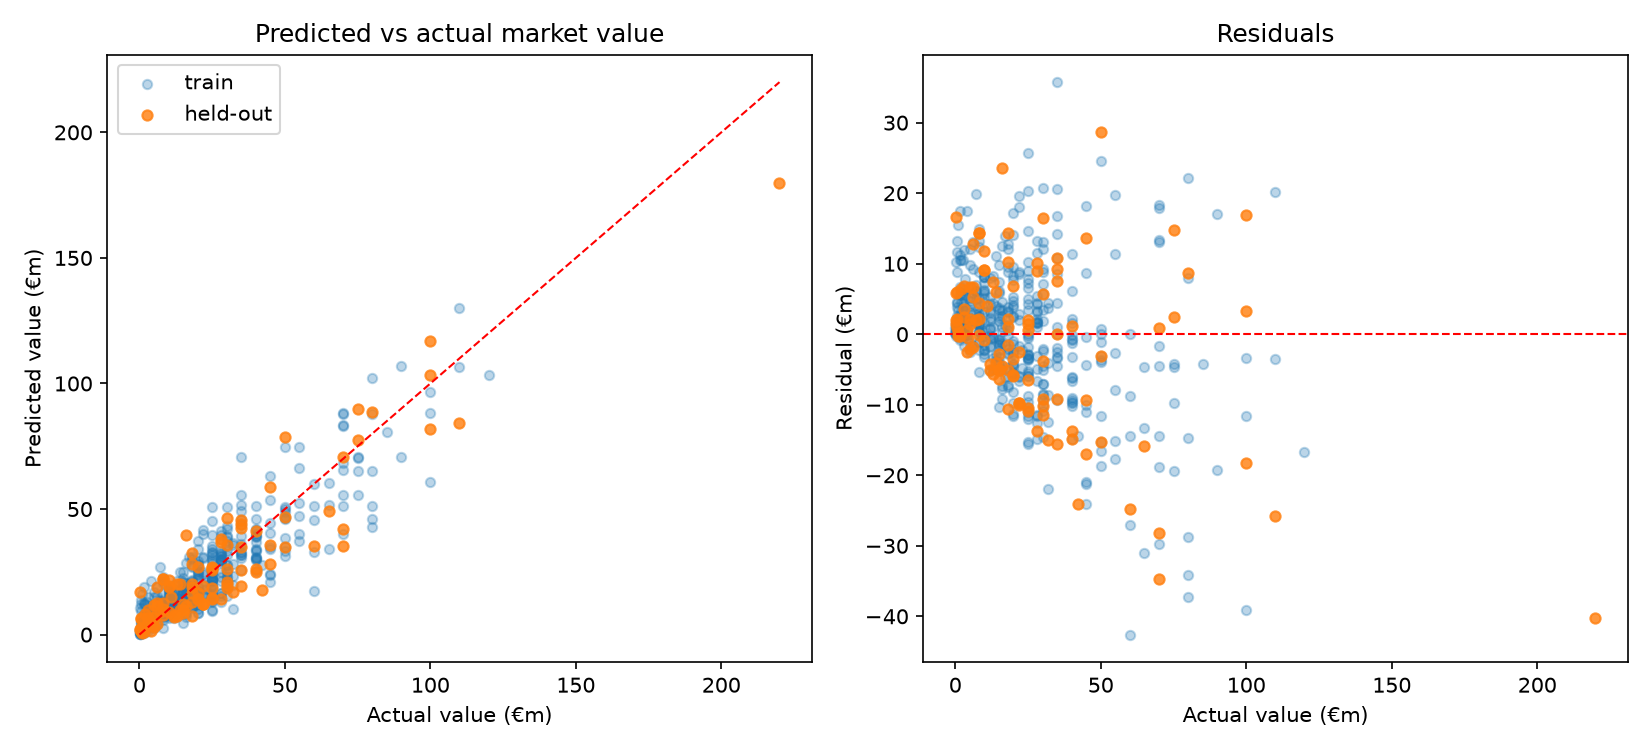
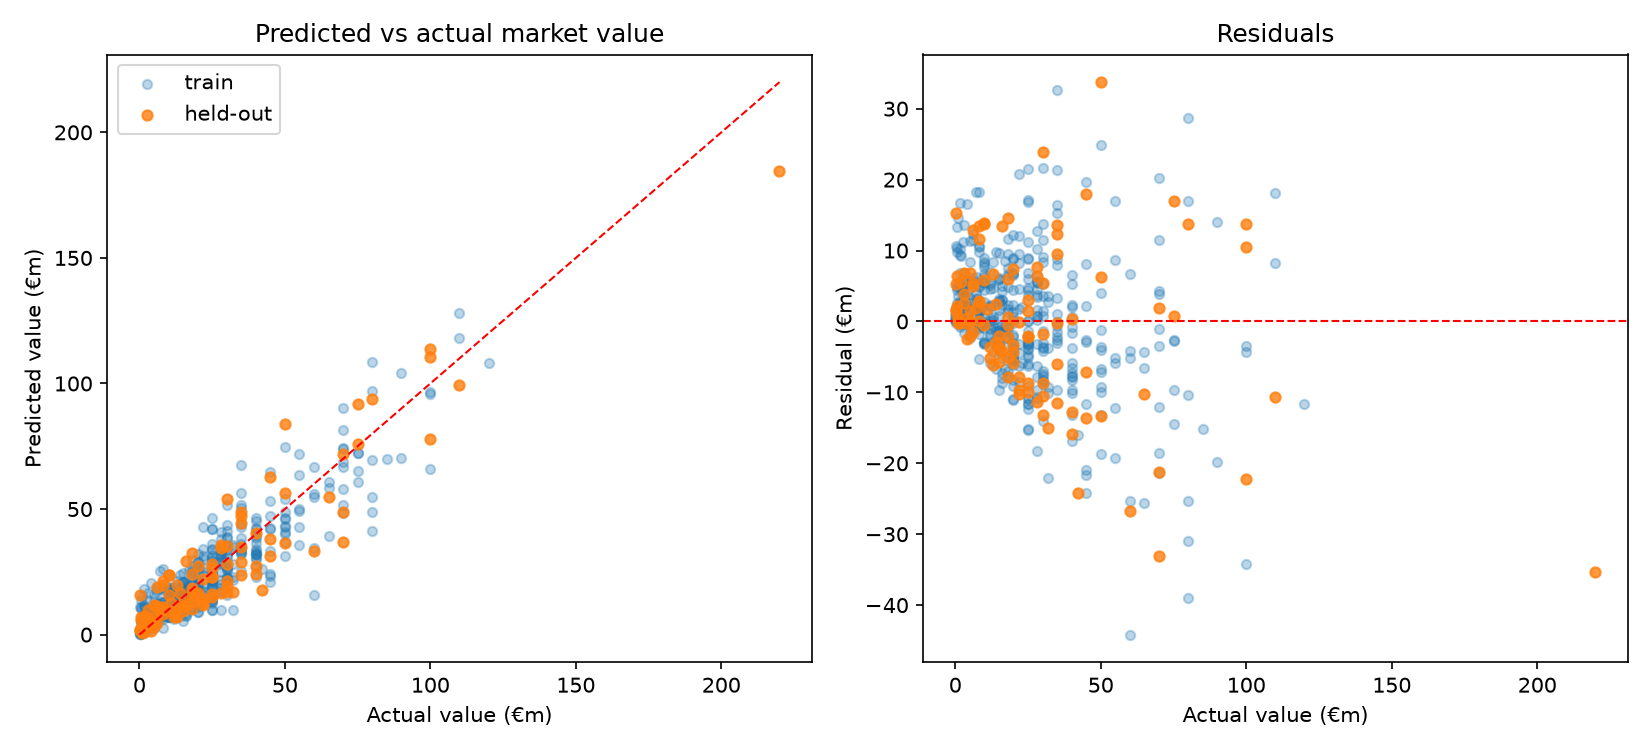
Add the newest season on its own: the sharpest gain since FPL history
Career figures average four seasons together, so a player who has just become a
regular - or just lost their place - is described badly by them. Carrying the
newest completed season as its own feature, alongside the career one, is worth
more than anything else tried since the FPL archive went in:

  CV MAE            EUR7.90m -> EUR7.46m
  top-decile MAE    EUR18.6m -> EUR17.1m
  top-decile ratio  0.86 -> 0.91
  R^2 (log)         0.685 -> 0.699

The two features are not redundant. Replacing the career share with the recent
one is worse than keeping both (MAE EUR7.48m vs EUR7.37m over 30 folds): one
says who a player has been, the other where they stand now.

This is also the best answer so far to the model under-asking for expensive
players, which is what prompted the change.

Also tested and rejected: minutes trend, seasons played, previous season,
age x position interactions, and Huber regression - which reaches a higher
log R^2 (0.708) but a worse euro error, consistent with every earlier choice here.

README now records what the shrinkage actually is. The model is not priced for
an older market: its estimates sum to EUR13.4bn against the market's EUR13.2bn,
2% above in aggregate. It shrinks toward the middle - 2.9x the market below EUR5m,
0.89x above EUR20m - which is regression to the mean, not a stale price level.
The dataset is a snapshot with no time dimension, so market inflation is already
inside the values it learns from.

diff --git a/backend/sources/build_dataset.py b/backend/sources/build_dataset.py
@@ -46,6 +46,8 @@ _EMPTY_NONPL = {
     "nonpl_seasons": 0,
     "nonpl_available_minutes": 0,
 }
+# A full Premier League season on the pitch.
+_PL_SEASON_MINUTES = 3420
 _FPL_FUZZY_CUTOFF = 0.88
 _UNDERSTAT_FUZZY_CUTOFF = 0.88
 
@@ -121,8 +123,15 @@ def _nonpl_columns(player: dict, index: dict) -> dict:
     """Non-PL playing record, only for players with no PL history to speak of."""
     records = _match_understat(player["name"], player.get("position", ""), index)
     if not records:
-        return {**_EMPTY_NONPL, "has_nonpl_record": 0}
-    return {**us.aggregate(records), "has_nonpl_record": 1}
+        return {**_EMPTY_NONPL, "has_nonpl_record": 0, "nonpl_recent_minutes": 0,
+                "nonpl_recent_available_minutes": _PL_SEASON_MINUTES}
+    recent = _recent_columns(records, _PL_SEASON_MINUTES)
+    return {
+        **us.aggregate(records),
+        "has_nonpl_record": 1,
+        "nonpl_recent_minutes": recent["recent_minutes"],
+        "nonpl_recent_available_minutes": recent["recent_available_minutes"],
+    }
 
 
 def _fpl_columns(player: dict | None, gameweeks: int) -> dict:
@@ -145,6 +154,23 @@ def _fpl_columns(player: dict | None, gameweeks: int) -> dict:
     }
 
 
+def _recent_columns(records: list[dict] | None, season_minutes: int) -> dict:
+    """Minutes in the newest season we cover, and how many were available.
+
+    Career totals average several seasons together, which describes a player
+    who has just become a regular - or just stopped being one - badly. The most
+    recent completed season is the sharper statement of where they stand now.
+    """
+    newest = max(SEASONS)
+    for record in records or []:
+        if record.get("season") == newest:
+            return {
+                "recent_minutes": record["minutes"],
+                "recent_available_minutes": record.get("season_minutes", season_minutes),
+            }
+    return {"recent_minutes": 0, "recent_available_minutes": season_minutes}
+
+
 def _history_columns(name: str, position: str, player: dict | None, index: dict) -> dict:
     """Past PL seasons over ``SEASONS``.
 
@@ -160,7 +186,11 @@ def _history_columns(name: str, position: str, player: dict | None, index: dict)
         us.transfermarkt_position_group(position),
     )
     history = archive.aggregate(records) if records else _EMPTY_HIST
-    return {**history, "has_hist_record": int(history["hist_seasons"] > 0)}
+    return {
+        **history,
+        "has_hist_record": int(history["hist_seasons"] > 0),
+        **_recent_columns(records, _PL_SEASON_MINUTES),
+    }
 
 
 def build_dataset(refresh_fpl: bool = False) -> pd.DataFrame:

diff --git a/backend/features.py b/backend/features.py
@@ -16,6 +16,7 @@ NUMERIC_FEATURES = [
     "has_any_history",
     "career_minutes_share",
     "career_gi_per90",
+    "recent_minutes_share",
 ]
 CATEGORICAL_FEATURES = ["position", "club"]
 FEATURE_COLUMNS = NUMERIC_FEATURES + CATEGORICAL_FEATURES
@@ -45,6 +46,14 @@ def add_derived_features(df: pd.DataFrame) -> pd.DataFrame:
       minutes played, but scoring *rate* is independent of it and is what
       separates an expensive forward from a regular one (MAE EUR8.48m ->
       EUR8.16m). xG/xA per 90 adds nothing on top of actual output.
+    - ``recent_minutes_share``: the same share, for the newest completed season
+      alone. Career totals average several seasons together, so a player who
+      has just become a regular - or just lost their place - is described badly
+      by them. The latest season on its own cut error sharply (MAE EUR7.90m ->
+      EUR7.37m, and EUR18.6m -> EUR16.3m among the dearest tenth), and it is
+      the strongest answer found so far to the model under-asking for expensive
+      players. Career and recent both earn their place: one says who a player
+      has been, the other where they stand now.
     """
     out = df.copy()
     out["age_squared"] = out["age"] ** 2
@@ -103,6 +112,18 @@ def add_derived_features(df: pd.DataFrame) -> pd.DataFrame:
         out["career_gi_per90"] = np.where(has_pl, out["hist_gi_per90"], out["nonpl_gi_per90"])
     if "has_any_history" not in out:
         out["has_any_history"] = (has_pl | (out["has_nonpl_record"] == 1)).astype(int)
+
+    if "recent_minutes_share" not in out:
+        if "recent_minutes" in out:
+            pl_recent = out["recent_minutes"] / out["recent_available_minutes"].clip(lower=1)
+            non_pl_recent = (
+                out["nonpl_recent_minutes"] / out["nonpl_recent_available_minutes"].clip(lower=1)
+                if "nonpl_recent_minutes" in out
+                else 0.0
+            )
+            out["recent_minutes_share"] = np.where(has_pl, pl_recent, non_pl_recent)
+        else:
+            out["recent_minutes_share"] = 0.0
     return out
 
 

diff --git a/backend/tests/test_features.py b/backend/tests/test_features.py
@@ -162,3 +162,32 @@ def test_career_features_zero_for_players_with_no_history_anywhere():
     assert (out["career_minutes_share"] == 0).all()
     assert (out["career_gi_per90"] == 0).all()
     assert (out["has_any_history"] == 0).all()
+
+
+def test_recent_minutes_share_uses_the_newest_pl_season():
+    df = _sample_df().assign(
+        has_hist_record=1, has_nonpl_record=0,
+        hist_minutes=0, hist_seasons=1, hist_goals=0, hist_assists=0,
+        recent_minutes=[3420, 1710, 0, 342],
+        recent_available_minutes=3420,
+    )
+    out = add_derived_features(df)
+
+    assert list(out["recent_minutes_share"]) == [1.0, 0.5, 0.0, 0.1]
+
+
+def test_recent_minutes_share_falls_back_to_the_non_pl_season():
+    df = _sample_df().assign(
+        has_hist_record=0, has_nonpl_record=1,
+        hist_minutes=0, hist_seasons=0, hist_goals=0, hist_assists=0,
+        recent_minutes=0, recent_available_minutes=3420,
+        nonpl_recent_minutes=1530, nonpl_recent_available_minutes=3060,
+        nonpl_minutes=1530, nonpl_available_minutes=3060, nonpl_goals=0, nonpl_assists=0,
+    )
+    out = add_derived_features(df)
+
+    assert (out["recent_minutes_share"] == 0.5).all()
+
+
+def test_recent_minutes_share_defaults_without_season_columns():
+    assert (add_derived_features(_sample_df())["recent_minutes_share"] == 0).all()

diff --git a/backend/tests/test_build_dataset.py b/backend/tests/test_build_dataset.py
@@ -191,3 +191,28 @@ def test_history_columns_empty_when_player_is_genuinely_new():
 
     assert cols["has_hist_record"] == 0
     assert cols["hist_minutes"] == 0
+
+
+def test_recent_columns_take_the_newest_season():
+    records = [
+        {"season": 2023, "minutes": 3000},
+        {"season": 2025, "minutes": 900, "season_minutes": 3060},
+        {"season": 2024, "minutes": 2000},
+    ]
+
+    assert bd._recent_columns(records, 3420) == {
+        "recent_minutes": 900,
+        "recent_available_minutes": 3060,
+    }
+
+
+def test_recent_columns_are_zero_when_the_newest_season_was_missed():
+    """Not playing the latest season is information, not missing data."""
+    assert bd._recent_columns([{"season": 2023, "minutes": 3000}], 3420) == {
+        "recent_minutes": 0,
+        "recent_available_minutes": 3420,
+    }
+
+
+def test_recent_columns_handle_no_record_at_all():
+    assert bd._recent_columns(None, 3420)["recent_minutes"] == 0

diff --git a/README.md b/README.md
@@ -80,7 +80,8 @@ seeds at this dataset size.
 | + past seasons' minutes | 0.64 | €8.5m | €19.8m |
 | + past-season goals+assists **per 90** | 0.65 | €8.2m | €19.3m |
 | + non-PL record as a **fallback** | 0.67 | €8.0m | €19.2m |
-| + PL history from the season archive | **0.69** | **€7.9m** | **€19.1m** |
+| + PL history from the season archive | 0.69 | €7.9m | €19.1m |
+| + **the newest season on its own** | **0.70** | **€7.5m** | **€17.1m** |
 
 Three findings worth keeping in mind:
 
@@ -89,6 +90,12 @@ Three findings worth keeping in mind:
 - **Rates matter, totals don't.** Raw goal totals add nothing - they're largely a
   restatement of minutes played. Goals+assists *per 90* is independent of playing
   time and does help, especially for expensive forwards.
+- **Recency beats the average.** Career totals average several seasons together,
+  which describes a player who has just become a regular — or just lost their
+  place — badly. Adding the newest completed season *on its own*, alongside the
+  career figure, was the single largest gain since the FPL history went in, and
+  it is the best answer found so far to the model under-asking for expensive
+  players (top-decile predicted/actual 0.86 → 0.91).
 - **Recent history only.** Extending the archive back to 2018 made things *worse*
   (R² 0.673 -> 0.655, MAE €8.25m -> €8.51m). Form from six years ago says little
   about today's value, and it doesn't reach the players who are missing history
@@ -103,7 +110,23 @@ Training weights players by √value. Plain log-value regression optimises *rela
 error, so cheap players outvote the stars; weighting lowers euro MAE overall and for
 the top 10%, at some cost in log-R².
 
-The model still under-predicts the very top (top-10% predicted/actual ≈ 0.89) and
+### The model shrinks toward the middle
+
+It is not that the model is priced for an older market. Its estimates sum to
+€13.4bn against the market's €13.2bn — it is 2% *above* the market in aggregate,
+and its median player is 7% above. What it does is shrink: below €5m it asks
+about 2.9× the market, above €20m about 0.89×.
+
+That is regression to the mean, and it is the price of lower error when features
+are noisy. Three corrections were tested — linear recalibration, isotonic
+recalibration and Duan smearing — and every one improved calibration while making
+euro error worse. So the model keeps the shrinkage and the interface explains it.
+
+Note this is a snapshot: the target is Transfermarkt's valuation *today*, and the
+dataset has no time dimension at all, so transfer-market inflation is already
+inside the numbers the model learns from rather than something it has to correct.
+
+The model still under-predicts the very top (top-10% predicted/actual ≈ 0.91) and
 players with no PL history - about a quarter of the squad, flagged by `has_hist_record`.
 
 Tried and rejected: random forest / gradient boosting (with matched weights the linear
